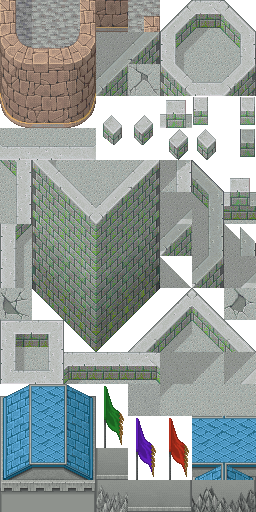
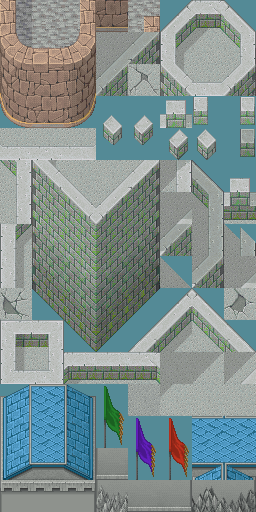
the top layer is now drawn on top of the entities

diff --git a/Map.cpp b/Map.cpp
@@ -29,7 +29,8 @@ Map::Map()
 		loadedTileSheet = false;*/
 
 	// Set up the map texture
-	mapTexture.create(MAP_WIDTH, MAP_HEIGHT);
+	for(int i = 0; i < NUM_LAYERS; i++)
+		mapTexture[i].create(MAP_WIDTH, MAP_HEIGHT);
 	load("room1.map");
 
 	p = new Player("playersheet.png", 5, 5);
@@ -84,7 +85,8 @@ void Map::updateSprite()
 {
 
 	// Clear the map
-	mapTexture.clear();
+	for(int i = 0; i < NUM_LAYERS; i++)
+		mapTexture[i].clear(sf::Color(0, 0, 0, 0));
 
 	// Make sure we have a map
 	if(loaded)
@@ -105,8 +107,10 @@ void Map::updateSprite()
 					if((ttx < 0) || (ttx > NUM_TTX) || (tty < 0) || (tty > NUM_TTY))
 					{
 						loaded = false;
-						temp = *TileSpriteManager::getTileSprite(sf::Vector3<int>(0, 1, 0));
-						//temp = *tileTypes[2 * NUM_TTY];
+						if(k == 0)
+							temp = *TileSpriteManager::getTileSprite(sf::Vector3<int>(0, 1, 0));
+						else
+							temp = *TileSpriteManager::getTileSprite(sf::Vector3<int>(0, 0, 0));
 					}
 					else
 						temp = *TileSpriteManager::getTileSprite(sf::Vector3<int>(tsn, ttx, tty));
@@ -117,12 +121,15 @@ void Map::updateSprite()
 
 					// Move the sprite to where we need to draw it
 					temp.setPosition(rect.left, rect.top);
-					mapTexture.draw(temp);
+					mapTexture[k].draw(temp);
 				}
 			}
 		}
-		mapTexture.display();
-		mapSprite.setTexture(mapTexture.getTexture());
+		for(int i = 0; i < NUM_LAYERS; i++)
+		{
+			mapTexture[i].display();
+			mapSprite[i].setTexture(mapTexture[i].getTexture());
+		}
 	}
 
 	if(!loaded)
@@ -132,22 +139,33 @@ void Map::updateSprite()
 		{
 			for(int j = 0; j < MAP_HEIGHT / Tile::TILE_HEIGHT; j++)
 			{
-				tiles[0][i][j].create(0, i, j, 1, 0, Tile::TP_NONE);
-				tiles[1][i][j].create(0, i, j, 0, 0, Tile::TP_NONE);
-				sf::Sprite temp1 = *TileSpriteManager::getTileSprite(sf::Vector3<int>(0, 1, 0));
-				sf::Sprite temp2 = *TileSpriteManager::getTileSprite(sf::Vector3<int>(0, 0, 0));
-				temp1.setPosition(i * Tile::TILE_WIDTH, j * Tile::TILE_HEIGHT);
-				temp2.setPosition(i * Tile::TILE_WIDTH, j * Tile::TILE_HEIGHT);
-				mapTexture.draw(temp1);
-				mapTexture.draw(temp2);
+				for(int k = 0; k < NUM_LAYERS; k++)
+				{
+					sf::Sprite temp;
+					if(k == 0)
+					{
+						tiles[k][i][j].create(0, i, j, 1, 0, Tile::TP_NONE);
+						temp = *TileSpriteManager::getTileSprite(sf::Vector3<int>(0, 1, 0));
+					}
+					else
+					{
+						tiles[k][i][j].create(0, i, j, 0, 0, Tile::TP_NONE);
+						temp = *TileSpriteManager::getTileSprite(sf::Vector3<int>(0, 0, 0));
+					}	
+					temp.setPosition(i * Tile::TILE_WIDTH, j * Tile::TILE_HEIGHT);
+					mapTexture[k].draw(temp);
+				}
 			}
 		}
 		// Save over the corrupt map with the default one
 		save();
 	}
 
-	mapTexture.display();
-	mapSprite.setTexture(mapTexture.getTexture());
+	for(int i = 0; i < NUM_LAYERS; i++)
+	{
+		mapTexture[i].display();
+		mapSprite[i].setTexture(mapTexture[i].getTexture());
+	}
 
 }
 
@@ -249,11 +267,13 @@ void Map::draw(sf::RenderWindow *window)
 {
 
 	// Draw the map sprite
-	window->draw(mapSprite);
+	window->draw(mapSprite[0]);
 	p->draw(window);
 
 	for(int i = 0; i < entities.size(); i++)
 		entities[i]->draw(window);
+
+	window->draw(mapSprite[1]);
 
 }
 

diff --git a/Map.h b/Map.h
@@ -19,8 +19,8 @@ class Map
 	static const int NUM_TTX = 8;
 	static const int NUM_TTY = 23;
 	static const int NUM_LAYERS = 2;
-	sf::RenderTexture mapTexture;
-	sf::Sprite mapSprite;
+	sf::RenderTexture mapTexture[NUM_LAYERS];
+	sf::Sprite mapSprite[NUM_LAYERS];
 	Tile tiles[NUM_LAYERS][MAP_WIDTH / Tile::TILE_WIDTH][MAP_HEIGHT / Tile::TILE_HEIGHT];
 	bool loaded;
 	bool loadedTileSheet;
